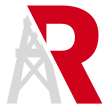
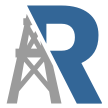
quick colors updates

diff --git a/assets/styles/main.css b/assets/styles/main.css
@@ -1,3 +1,6 @@
+a {
+  color: #336697;
+}
 
 .r-talk-meetup {
   position: relative;
